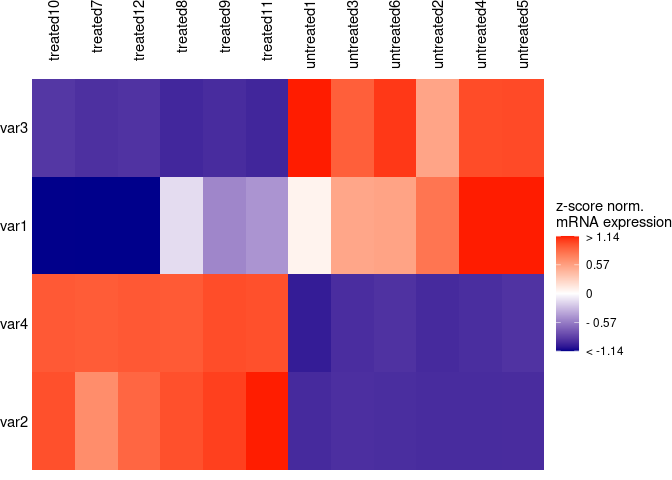
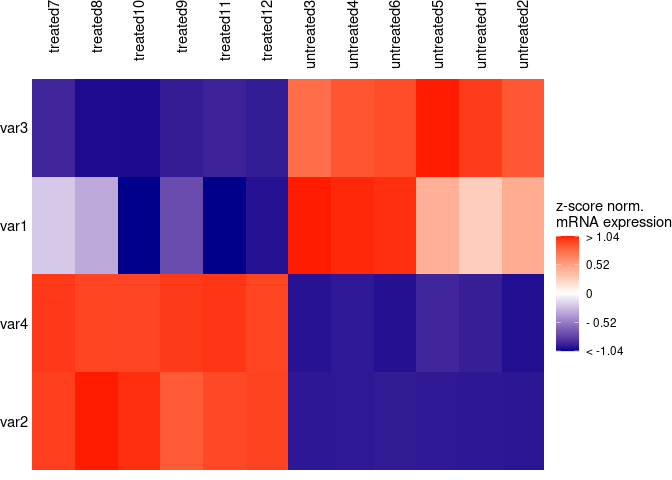
readme update2

diff --git a/README.md b/README.md
@@ -35,12 +35,12 @@ df <- data.frame(samples = c(paste0("untreated", 1:6), paste0("treated", 7:12)),
 
 head(df)
 #>      samples     group  patient batch      var1      var2     var3      var4
-#> 1 untreated1 Untreated Patient1     1  8.860087  9.576637 54.89087  8.136007
-#> 2 untreated2 Untreated Patient2     2 10.270228 10.350721 41.93481  9.870465
-#> 3 untreated3 Untreated Patient3     1  9.745679 11.950407 49.93015 10.260266
-#> 4 untreated4 Untreated Patient1     2 11.278134 10.366831 51.77163 10.302243
-#> 5 untreated5 Untreated Patient2     1 11.842896 10.449707 51.88338 10.955875
-#> 6 untreated6 Untreated Patient3     2  9.784406 11.261815 53.28463 10.889926
+#> 1 untreated1 Untreated Patient1     1  8.927879  9.751583 47.86399  9.396543
+#> 2 untreated2 Untreated Patient2     2  9.216838  9.284323 45.87959  7.788124
+#> 3 untreated3 Untreated Patient3     1 11.298714  9.744121 43.88606  8.075569
+#> 4 untreated4 Untreated Patient1     2 10.101002 10.306085 46.04717  8.700804
+#> 5 untreated5 Untreated Patient2     1  9.178411 10.334551 54.46727 10.248702
+#> 6 untreated6 Untreated Patient3     2 10.076768 11.278322 46.62077  7.950546
 
 heatmap_plot <- simpleHM(df, excluded_vars = "batch")    
 #> normalisation done
@@ -150,7 +150,8 @@ p4 <- simpleHM(df, excluded_vars = "batch", add_dendros = T, pull_side = c("var1
 #> Adding another scale for y, which will replace the existing scale.Scale for x is already present.
 #> Adding another scale for x, which will replace the existing scale.
 
-patchwork::wrap_plots(p1, p2, p3, p4, guides = "collect", ncol = 2)
+combined_plots <- patchwork::wrap_plots(p1, p2, p3, p4, guides = "collect", ncol = 2)
+combined_plots
 ```
 
 <img src="man/figures/README-unnamed-chunk-5-1.png" width="100%" />
